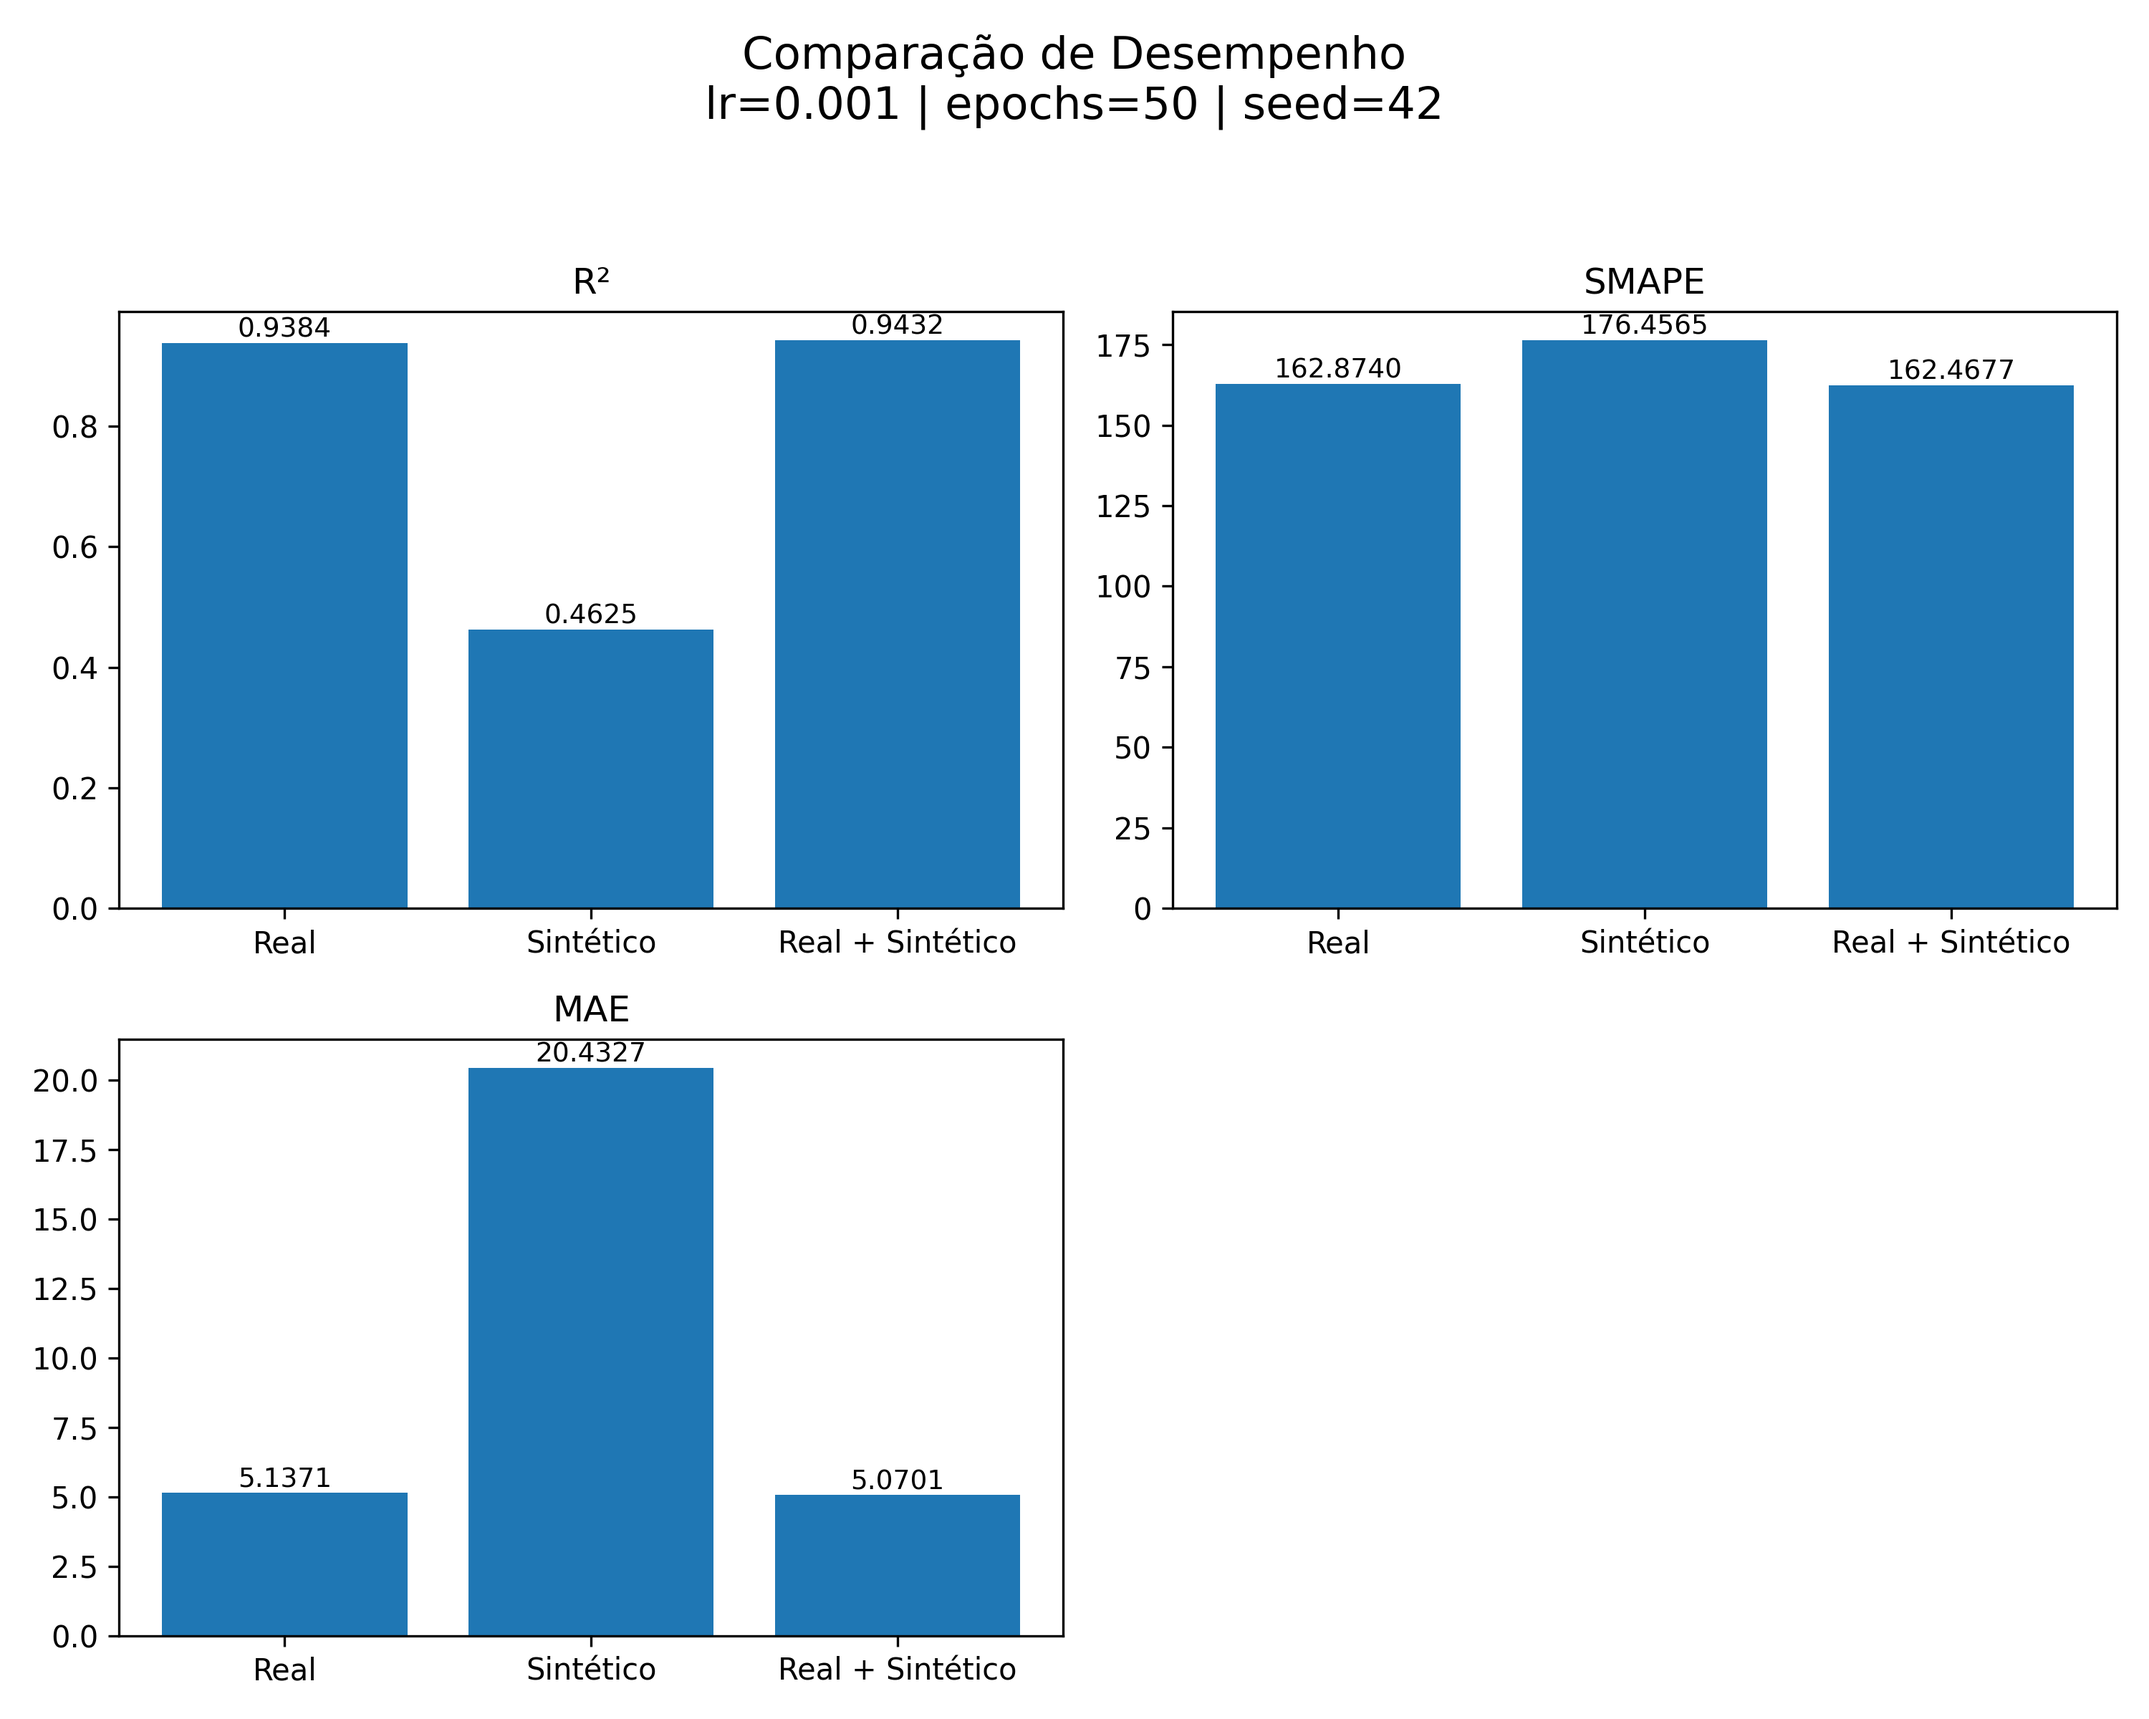
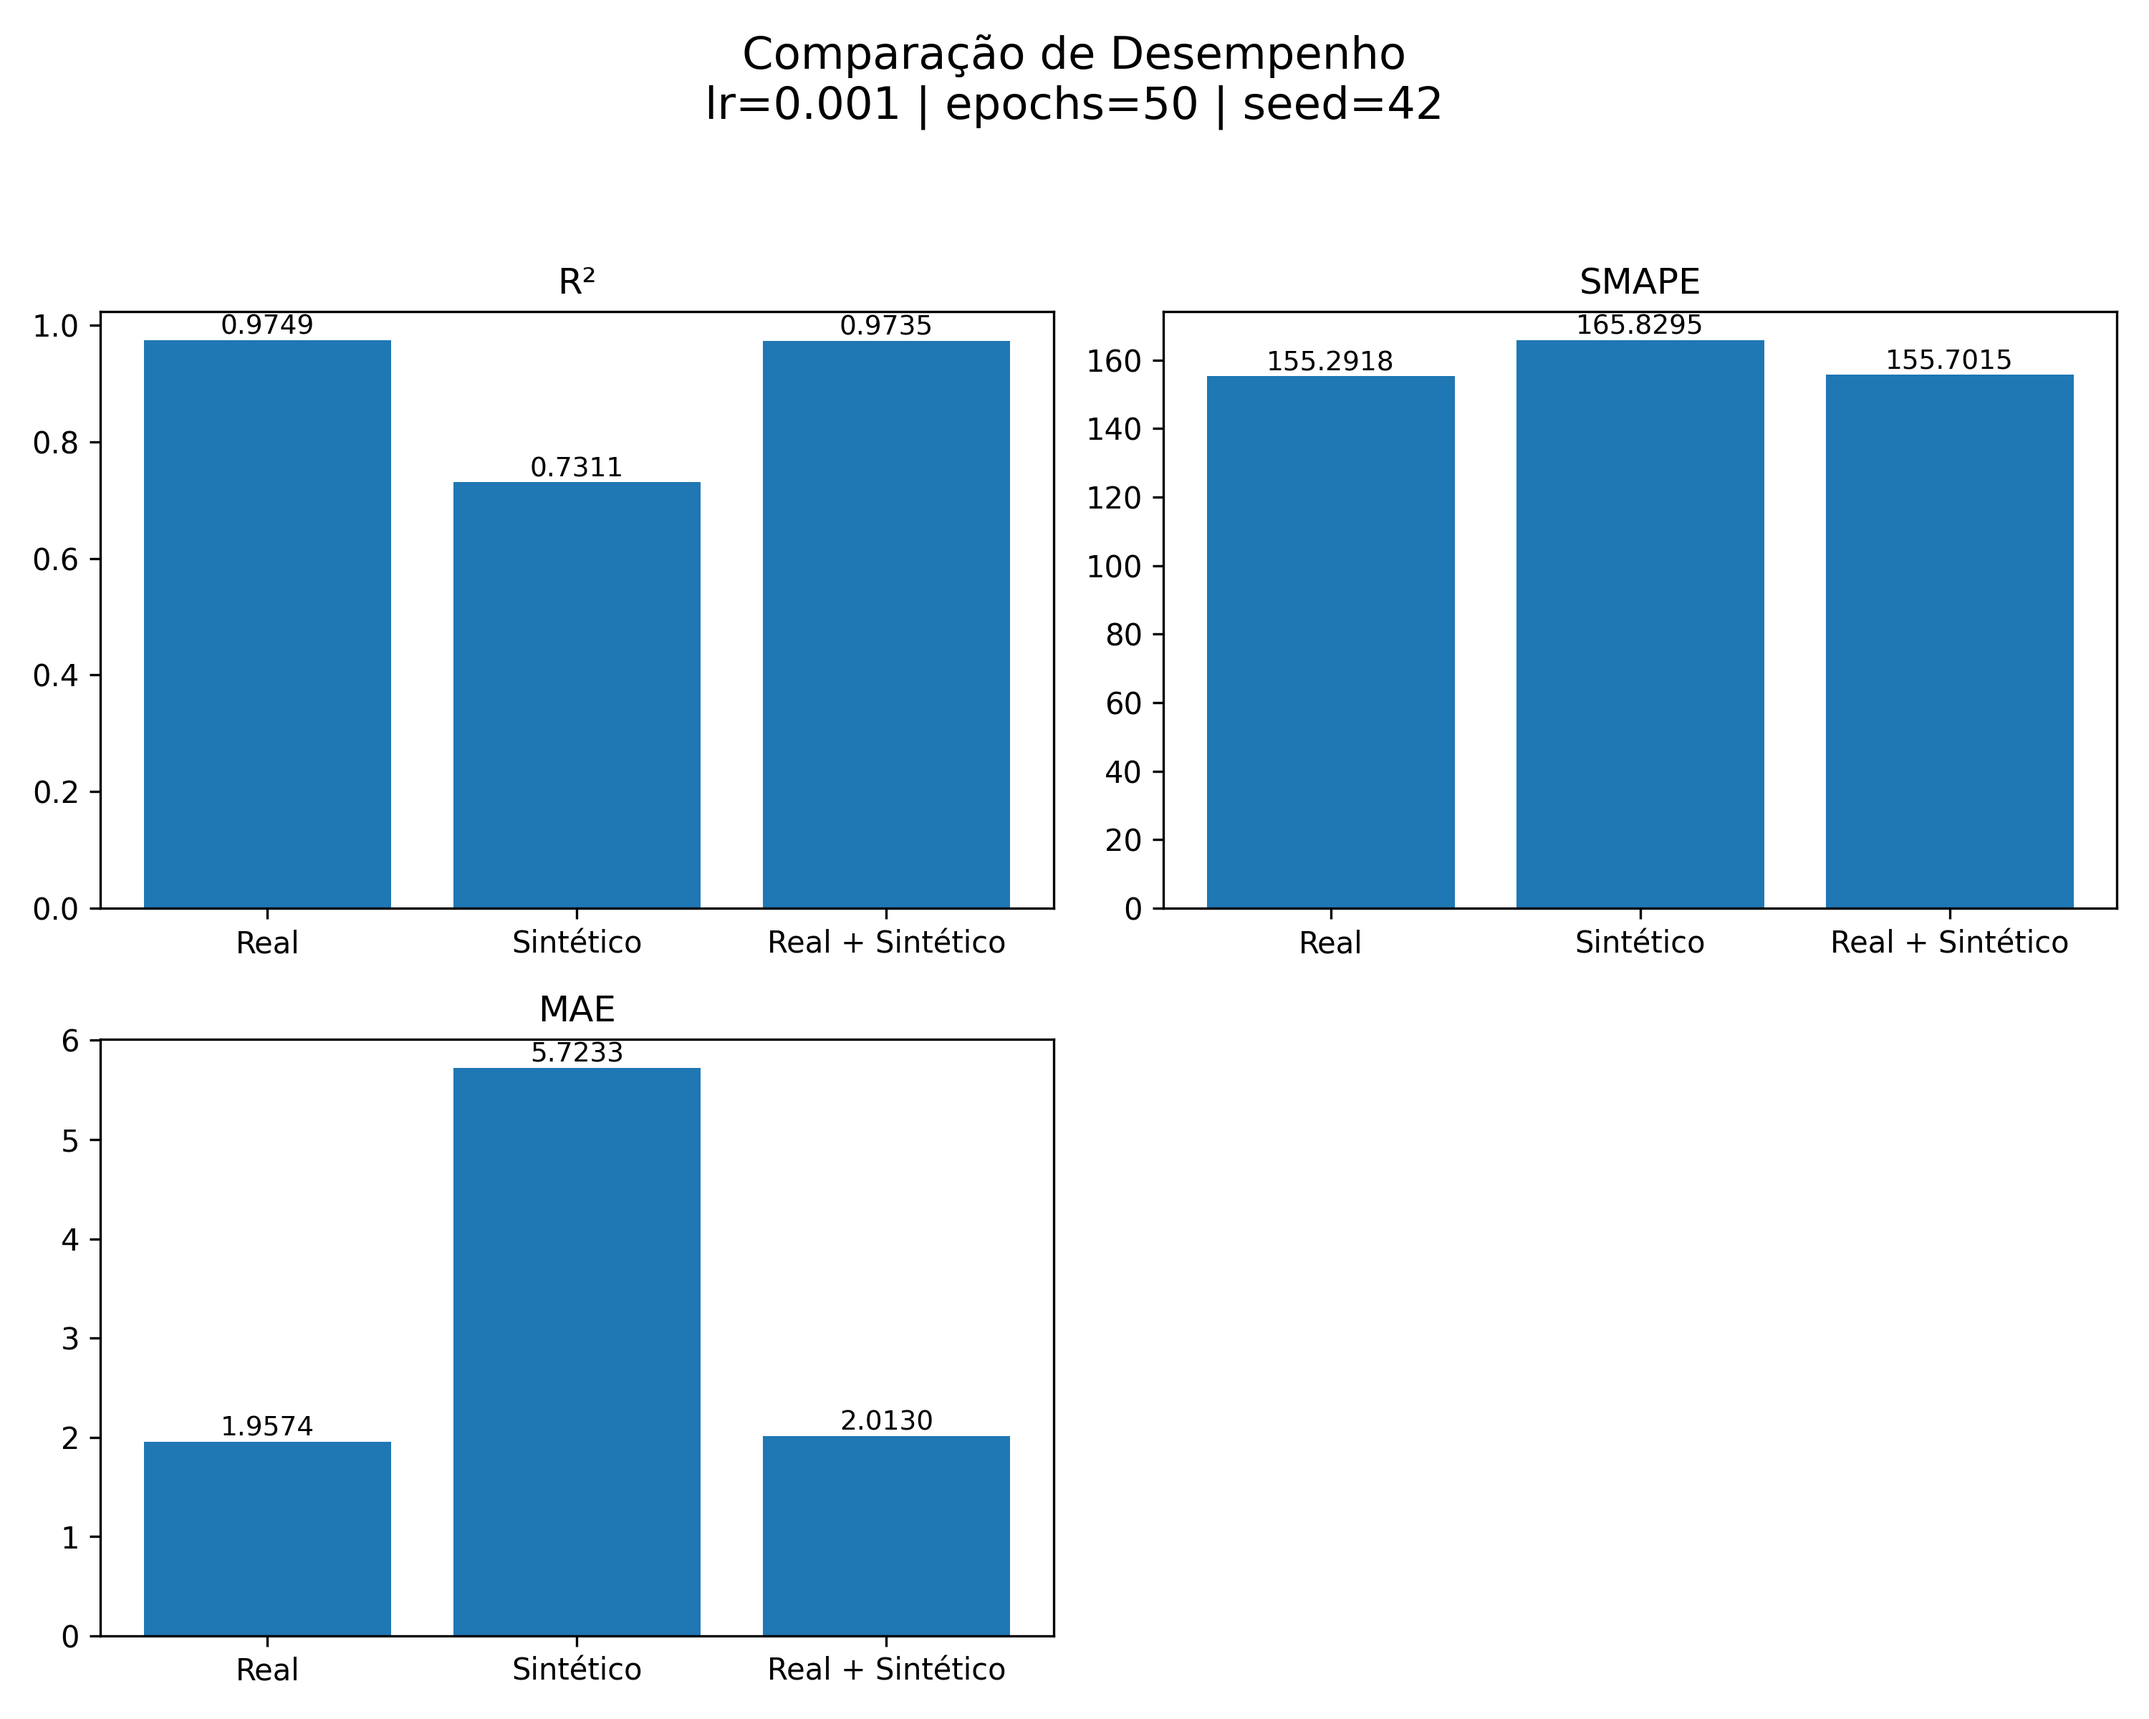
test

diff --git a/arquivos/d_linear_modulos/main_rascunho.py b/arquivos/d_linear_modulos/main_rascunho.py
@@ -18,7 +18,7 @@ from synthetic_data.generator          import (
     adjust_counts_by_group
 )
 from models.gmm_model import multiple_optuna_runs
-from models.dlinear                    import DLinearModel, train_model
+from models import DLinearModel, train_model, optimize_dlinear
 from evaluation.metrics                import compute_metrics
 from evaluation.plotting               import generate_plots, plot_hourly_trip_comparison, plot_random_pair_heatmaps, boxplot_model_eval 
 from synthetic_data.min_trips import (
@@ -154,72 +154,83 @@ def main() -> None:
                 "Real + Sintético":{}
             }
             metric_names = ["R²", "SMAPE", "MAE"]
-            for epochs in [50, 80, 100, 150, 200, 250]:
-                # Loop sobre os diferentes tipos de dados de treino
-                for typ in ["real", "synthetic", "real+synthetic"]:
-                    
-                    print(f"\n--- INICIANDO TREINO: {epochs} épocas | Dados: '{typ}' ---")
-                    
-                    # Pega os tensores de treino JÁ PRONTOS do dicionário
-                    X_train = processed_data[typ]['X_train']
-                    y_train = processed_data[typ]['y_train']
-                    
-                    seq_len = X_train.shape[1]
-                    input_dim = X_train.shape[2]
-                    output_dim = y_train.shape[2]
-                    # 1. Instancia o modelo
-                    dlinear_model = DLinearModel(
-                        input_dim=input_dim,
-                        output_dim=output_dim,
-                        seq_len=seq_len
-                    ) 
-                    
-                    # 2. Chama a função de treino modularizada
-                    history = train_model(
-                        model=dlinear_model,
-                        X_train=X_train, y_train=y_train,
-                        X_val=X_val, y_val=y_val,
-                        epochs=epochs
-                    )
+            for typ in ["real", "synthetic", "real+synthetic"]:
+                print(f"\n--- Buscando hiperparâmetros para dados: '{typ}' ---")
 
-                    with torch.no_grad():
-                        preds = dlinear_model(X_val).cpu().numpy().flatten()
-                    true_vals = y_val.cpu().numpy().flatten()
+                X_train = processed_data[typ]['X_train']
+                y_train = processed_data[typ]['y_train']
 
-                    label_map = {
-                        "real": "Real",
-                        "synthetic": "Sintético",
-                        "real+synthetic": "Real + Sintético",
-                    }
+                seq_len = X_train.shape[1]
+                input_dim = X_train.shape[2]
+                output_dim = y_train.shape[2]
 
-                    lbl = label_map[typ]
-                    metrics_results[lbl]["R²"]    = r2_score(true_vals, preds)
-                    metrics_results[lbl]["SMAPE"] = smape(true_vals, preds)
-                    metrics_results[lbl]["MAE"]   = mean_absolute_error(true_vals, preds)
-                    final_val_loss = history['val_loss'][-1]
-                    print(f"  > Experimento concluído. Perda final na validação: {final_val_loss:.6f}")
+                study = optimize_dlinear(
+                    X_train=X_train,
+                    y_train=y_train,
+                    X_val=X_val,
+                    y_val=y_val,
+                    input_dim=input_dim,
+                    output_dim=output_dim,
+                    seq_len=seq_len,
+                    n_trials=10,
+                    seed=seed,
+                )
 
-                #Plota o boxplot    
-                if all(len(metrics_results[lbl]) == len(metric_names) for lbl in metrics_results):
-                    suptitle = (
-                        f"Comparação de Desempenho\n"
-                        f"lr={0.001} | epochs={epochs} | seed={seed}"
-                    )
-                    out_path = os.path.join(
-                        "arquivos/d_linear_modulos/save_data/",
-                        f"comparacao_lr_{0.001}_epochs_{epochs}_seed_{seed}.png",
-                    )
+                best = study.best_trials[0]
+                params = best.params
 
-                    boxplot_model_eval(
-                        metrics_dict=metrics_results,
-                        metric_names=metric_names,
-                        suptitle=suptitle,
-                        save_path=out_path,
-                    )
-                    print(f"> Figura salva em: {out_path}")
+                model = DLinearModel(
+                    input_dim=input_dim,
+                    output_dim=output_dim,
+                    seq_len=seq_len,
+                )
 
-                    # Limpa para a próxima iteração de epochs
-                    metrics_results = {k: {} for k in metrics_results}    
+                history = train_model(
+                    model=model,
+                    X_train=X_train,
+                    y_train=y_train,
+                    X_val=X_val,
+                    y_val=y_val,
+                    epochs=params["epochs"],
+                    learning_rate=params["learning_rate"],
+                    batch_size=params["batch_size"],
+                )
+
+                with torch.no_grad():
+                    preds = model(X_val).cpu().numpy().flatten()
+                true_vals = y_val.cpu().numpy().flatten()
+
+                label_map = {
+                    "real": "Real",
+                    "synthetic": "Sintético",
+                    "real+synthetic": "Real + Sintético",
+                }
+
+                lbl = label_map[typ]
+                metrics_results[lbl]["R²"]    = r2_score(true_vals, preds)
+                metrics_results[lbl]["SMAPE"] = smape(true_vals, preds)
+                metrics_results[lbl]["MAE"]   = mean_absolute_error(true_vals, preds)
+                final_val_loss = history['val_loss'][-1]
+                print(
+                    f"  > Melhor trial: {params} | Val Loss: {final_val_loss:.6f}"
+                )
+
+            if all(len(metrics_results[lbl]) == len(metric_names) for lbl in metrics_results):
+                suptitle = f"Comparação de Desempenho\nseed={seed}"
+                out_path = os.path.join(
+                    "arquivos/d_linear_modulos/save_data/",
+                    f"comparacao_optuna_seed_{seed}.png",
+                )
+
+                boxplot_model_eval(
+                    metrics_dict=metrics_results,
+                    metric_names=metric_names,
+                    suptitle=suptitle,
+                    save_path=out_path,
+                )
+                print(f"> Figura salva em: {out_path}")
+
+                metrics_results = {k: {} for k in metrics_results}
                     
 print("\n--- Treinamento e experimentação concluídos! ---")
 

diff --git a/arquivos/d_linear_modulos/models/dlinear_optuna.py b/arquivos/d_linear_modulos/models/dlinear_optuna.py
@@ -1,0 +1,71 @@
+import optuna
+import torch
+
+from .dlinear import DLinearModel, train_model
+from utils.helpers import smape
+from evaluation.metrics import compute_metrics
+
+
+def optimize_dlinear(
+    X_train: torch.Tensor,
+    y_train: torch.Tensor,
+    X_val: torch.Tensor,
+    y_val: torch.Tensor,
+    input_dim: int,
+    output_dim: int,
+    seq_len: int,
+    n_trials: int = 50,
+    seed: int | None = None,
+):
+    """Optimize DLinear hyperparameters using Optuna.
+    ...
+    """
+    
+    # 1. Defina o dispositivo aqui, para que ele esteja disponível para cada "trial"
+    device = torch.device("cuda" if torch.cuda.is_available() else "cpu")
+    print(f"Iniciando otimização no dispositivo: {device}")
+    device = 'cuda:0'
+
+    def objective(trial: optuna.Trial):
+        lr = trial.suggest_float("learning_rate", 1e-4, 1e-2, log=True)
+        batch = trial.suggest_int("batch_size", 32, 128, step=32)
+        epochs = trial.suggest_int("epochs", 50, 400, step=50)
+
+        model = DLinearModel(input_dim=input_dim, output_dim=output_dim, seq_len=seq_len)
+        
+        # 2. Passe o 'device' para a função de treino
+        train_model(
+            model,
+            X_train,
+            y_train,
+            X_val,
+            y_val,
+            epochs=epochs,
+            learning_rate=lr,
+            batch_size=batch,
+        )
+
+        # Após o treino, o modelo já está no 'device' correto.
+        # Agora, para fazer a predição, os dados também precisam estar lá.
+        with torch.no_grad():
+            # 3. Mova os dados de validação para o mesmo dispositivo do modelo
+            pred_tensor = model(X_val.to(device)) # <--- ALTERAÇÃO IMPORTANTE
+            
+            # Mova os resultados de volta para a CPU para usar com NumPy/Scikit-learn
+            pred = pred_tensor.squeeze().cpu().numpy()
+            true = y_val.squeeze().cpu().numpy()
+
+        metrics = compute_metrics(true, pred)
+        r2 = metrics["R²"]
+        smape_val = smape(true, pred)
+
+        return r2, smape_val
+
+    sampler = optuna.samplers.TPESampler(seed=seed)
+    study = optuna.create_study(directions=["maximize", "minimize"], sampler=sampler)
+    
+    # É uma boa prática rodar jobs de otimização na GPU em uma única thread (n_jobs=1)
+    # para evitar conflitos de alocação de memória na VRAM.
+    study.optimize(objective, n_trials=n_trials, n_jobs=1) 
+    
+    return study

diff --git a/arquivos/d_linear_modulos/models/dlinear.py b/arquivos/d_linear_modulos/models/dlinear.py
@@ -88,7 +88,7 @@ def train_model(
         epoch_train_loss = 0.0
         for X_batch, y_batch in train_loader:
             # Envia os dados do lote para o dispositivo
-            X_batch, y_batch = X_batch, y_batch
+            X_batch, y_batch = X_batch.to('cuda:0'), y_batch.to('cuda:0')
             
             optimizer.zero_grad()       # Zera os gradientes
             y_pred = model(X_batch)     # Forward pass: faz a predição
@@ -103,7 +103,7 @@ def train_model(
         epoch_val_loss = 0.0
         with torch.no_grad(): # Desabilita o cálculo de gradientes para validação
             for X_batch, y_batch in val_loader:
-                X_batch, y_batch = X_batch, y_batch
+                X_batch, y_batch = X_batch.to('cuda:0'), y_batch.to('cuda:0')
                 y_pred = model(X_batch)
                 loss = loss_fn(y_pred, y_batch)
                 epoch_val_loss += loss.item()

diff --git a/arquivos/d_linear_modulos/data_processing/dlinear_preparer.py b/arquivos/d_linear_modulos/data_processing/dlinear_preparer.py
@@ -93,6 +93,7 @@ def _create_windows(df: pd.DataFrame, input_window_size: int, prediction_horizon
     """
     Função auxiliar que transforma um DataFrame em janelas (X, y) já como tensores do PyTorch.
     """
+    device = torch.device('cuda:0')
     target_cols = [col for col in df.columns if col != 'hora_do_dia']
     
     X_list, y_list = [], []
@@ -125,7 +126,7 @@ def prepare_all_data_for_dlinear(
     validation_df: pd.DataFrame, 
     input_window_size: int = 3, 
     prediction_horizon: int = 1,
-    device: torch.device = torch.device('cpu')
+    device: torch.device = torch.device('cuda:0')
     ):
     """
     Prepara todos os dados para o modelo Dlinear, retornando tensores do PyTorch.

diff --git a/arquivos/d_linear_modulos/config.py b/arquivos/d_linear_modulos/config.py
@@ -8,7 +8,7 @@ SYNTHETIC_MULTIPLIER = 1           # fator de oversample p/ dados sintéticos
 SAVE_DIR             = "/home/caioloss/arquivos/d_linear_modulos/save_data"
 os.makedirs(SAVE_DIR, exist_ok=True)
 
-NUM_EXECUCOES        = 5
+NUM_EXECUCOES        = 10
 DATA_SAMPLER_SEED    = 35          # seed para o date-sampler
 
 # Ruídos (Código 1)

diff --git a/arquivos/d_linear_modulos/models/__init__.py b/arquivos/d_linear_modulos/models/__init__.py
@@ -1,0 +1,4 @@
+from .dlinear import DLinearModel, train_model
+from .dlinear_optuna import optimize_dlinear
+
+__all__ = ["DLinearModel", "train_model", "optimize_dlinear"]
